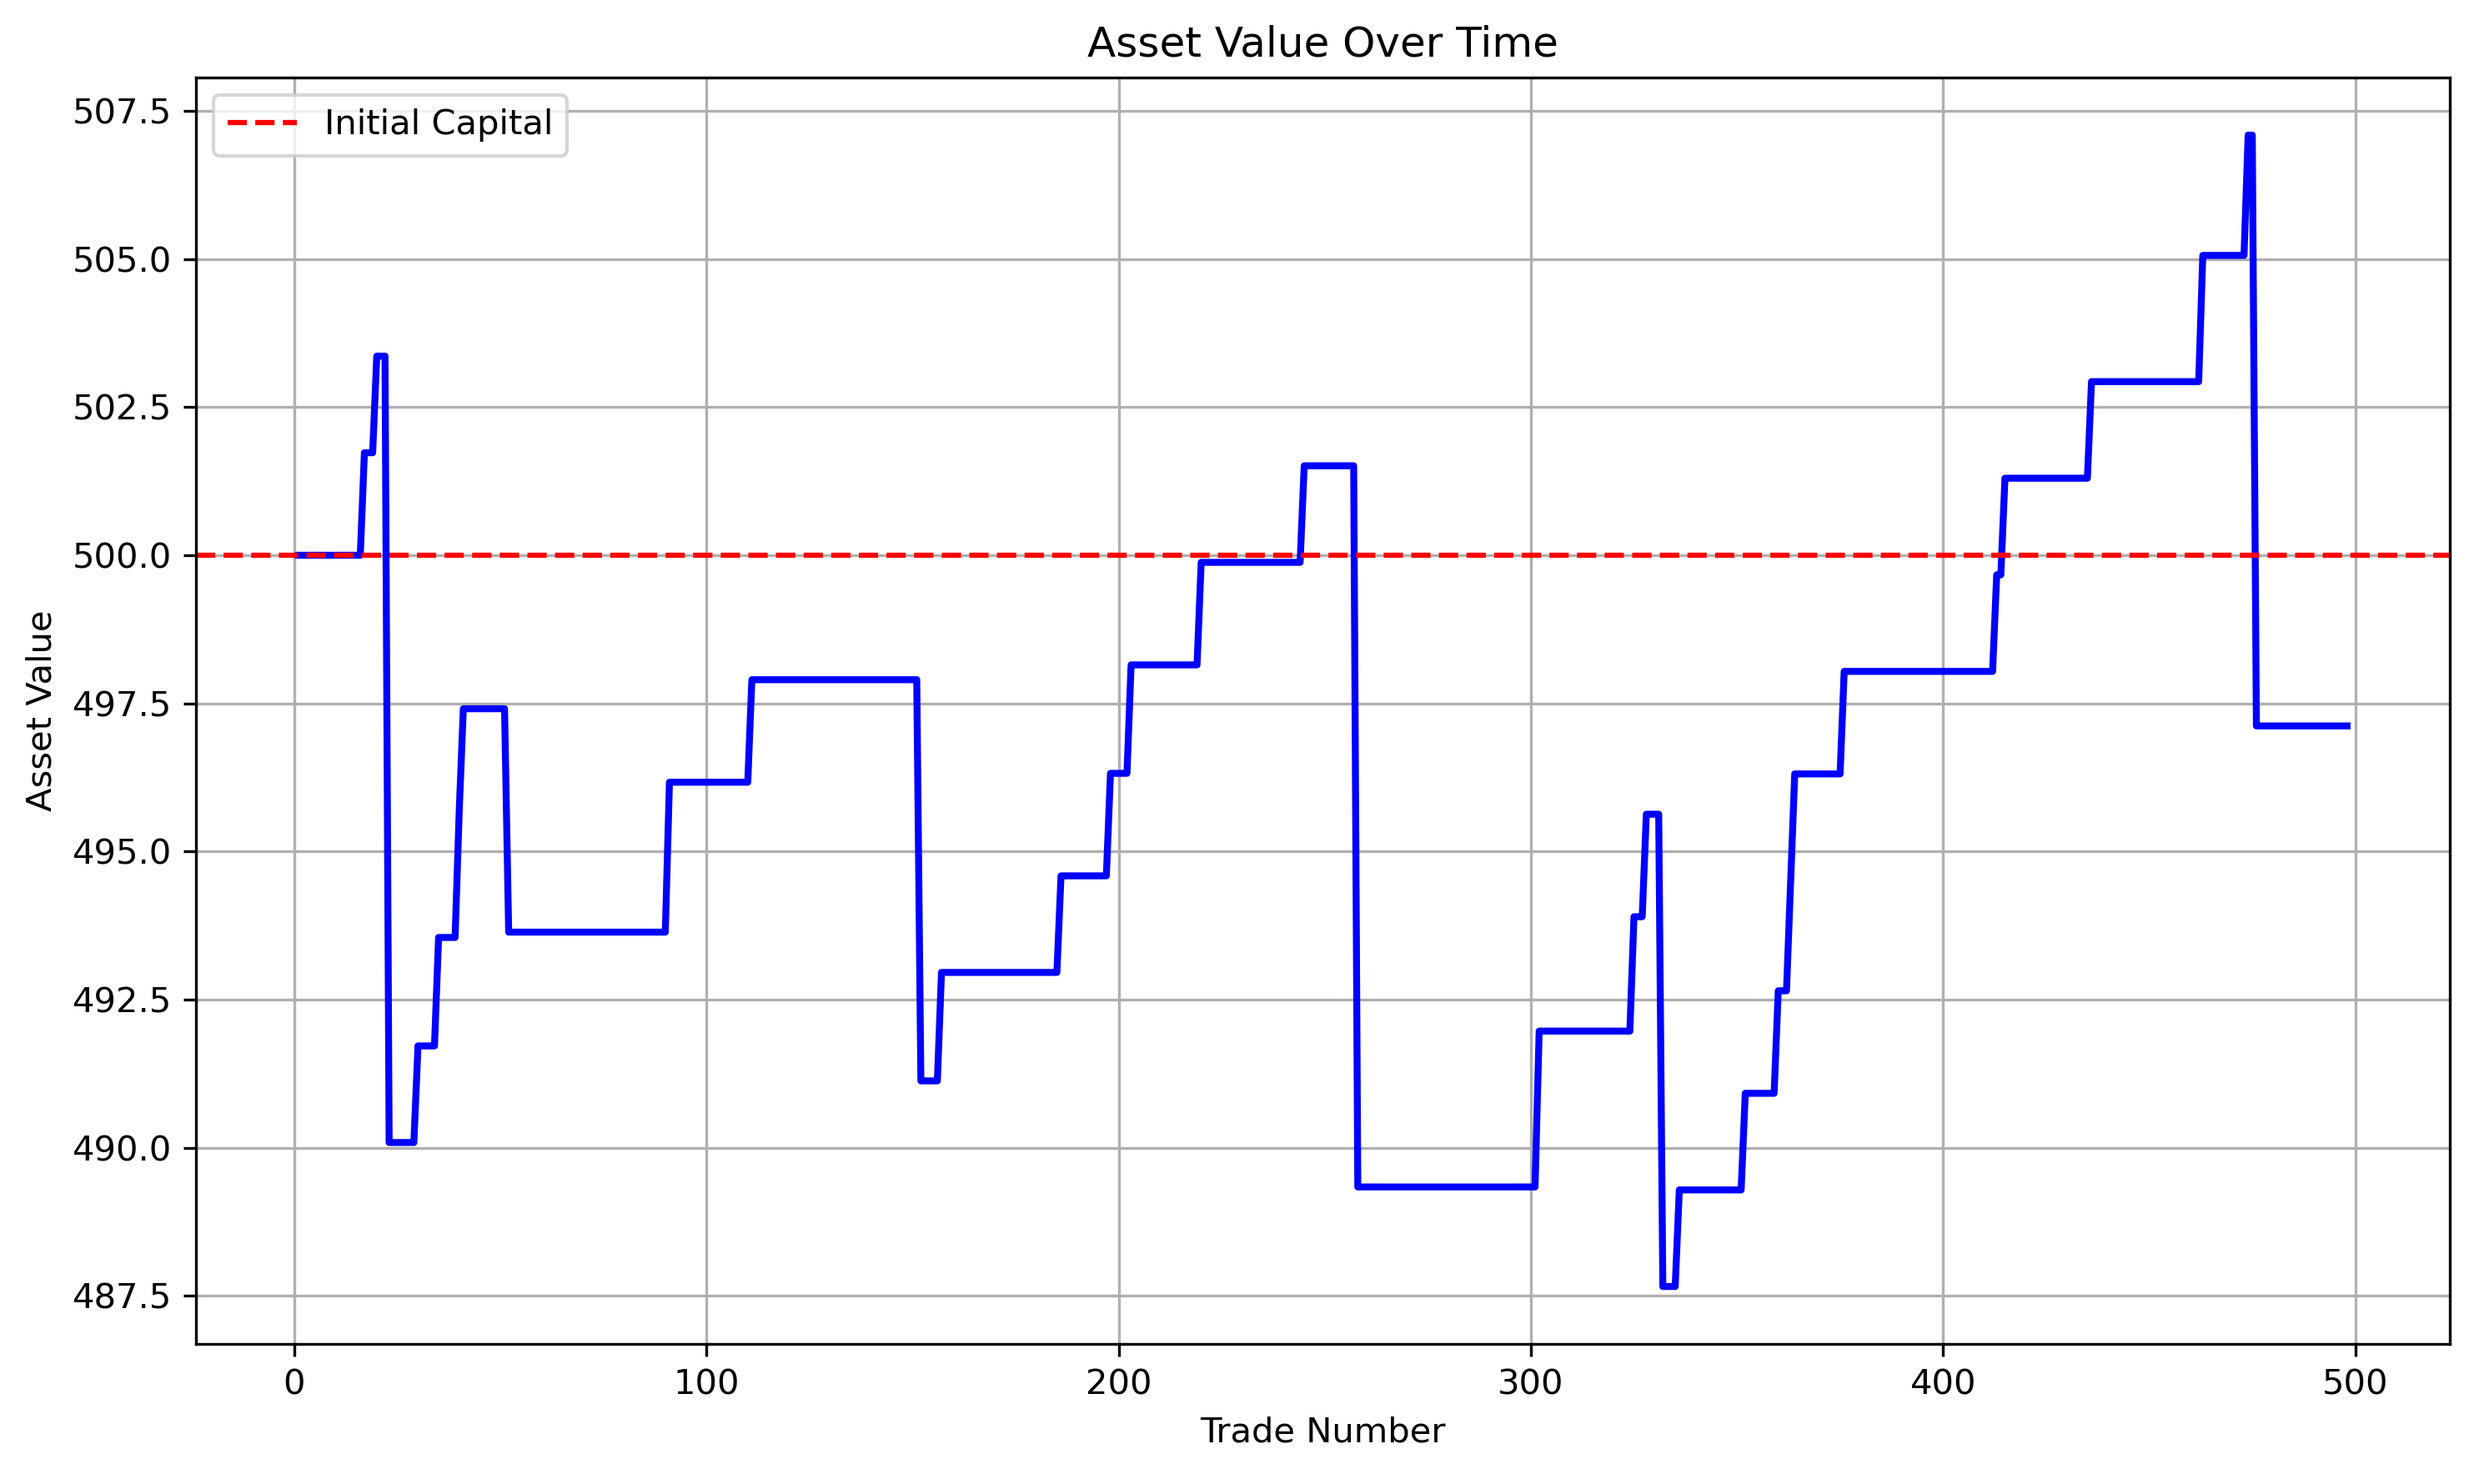
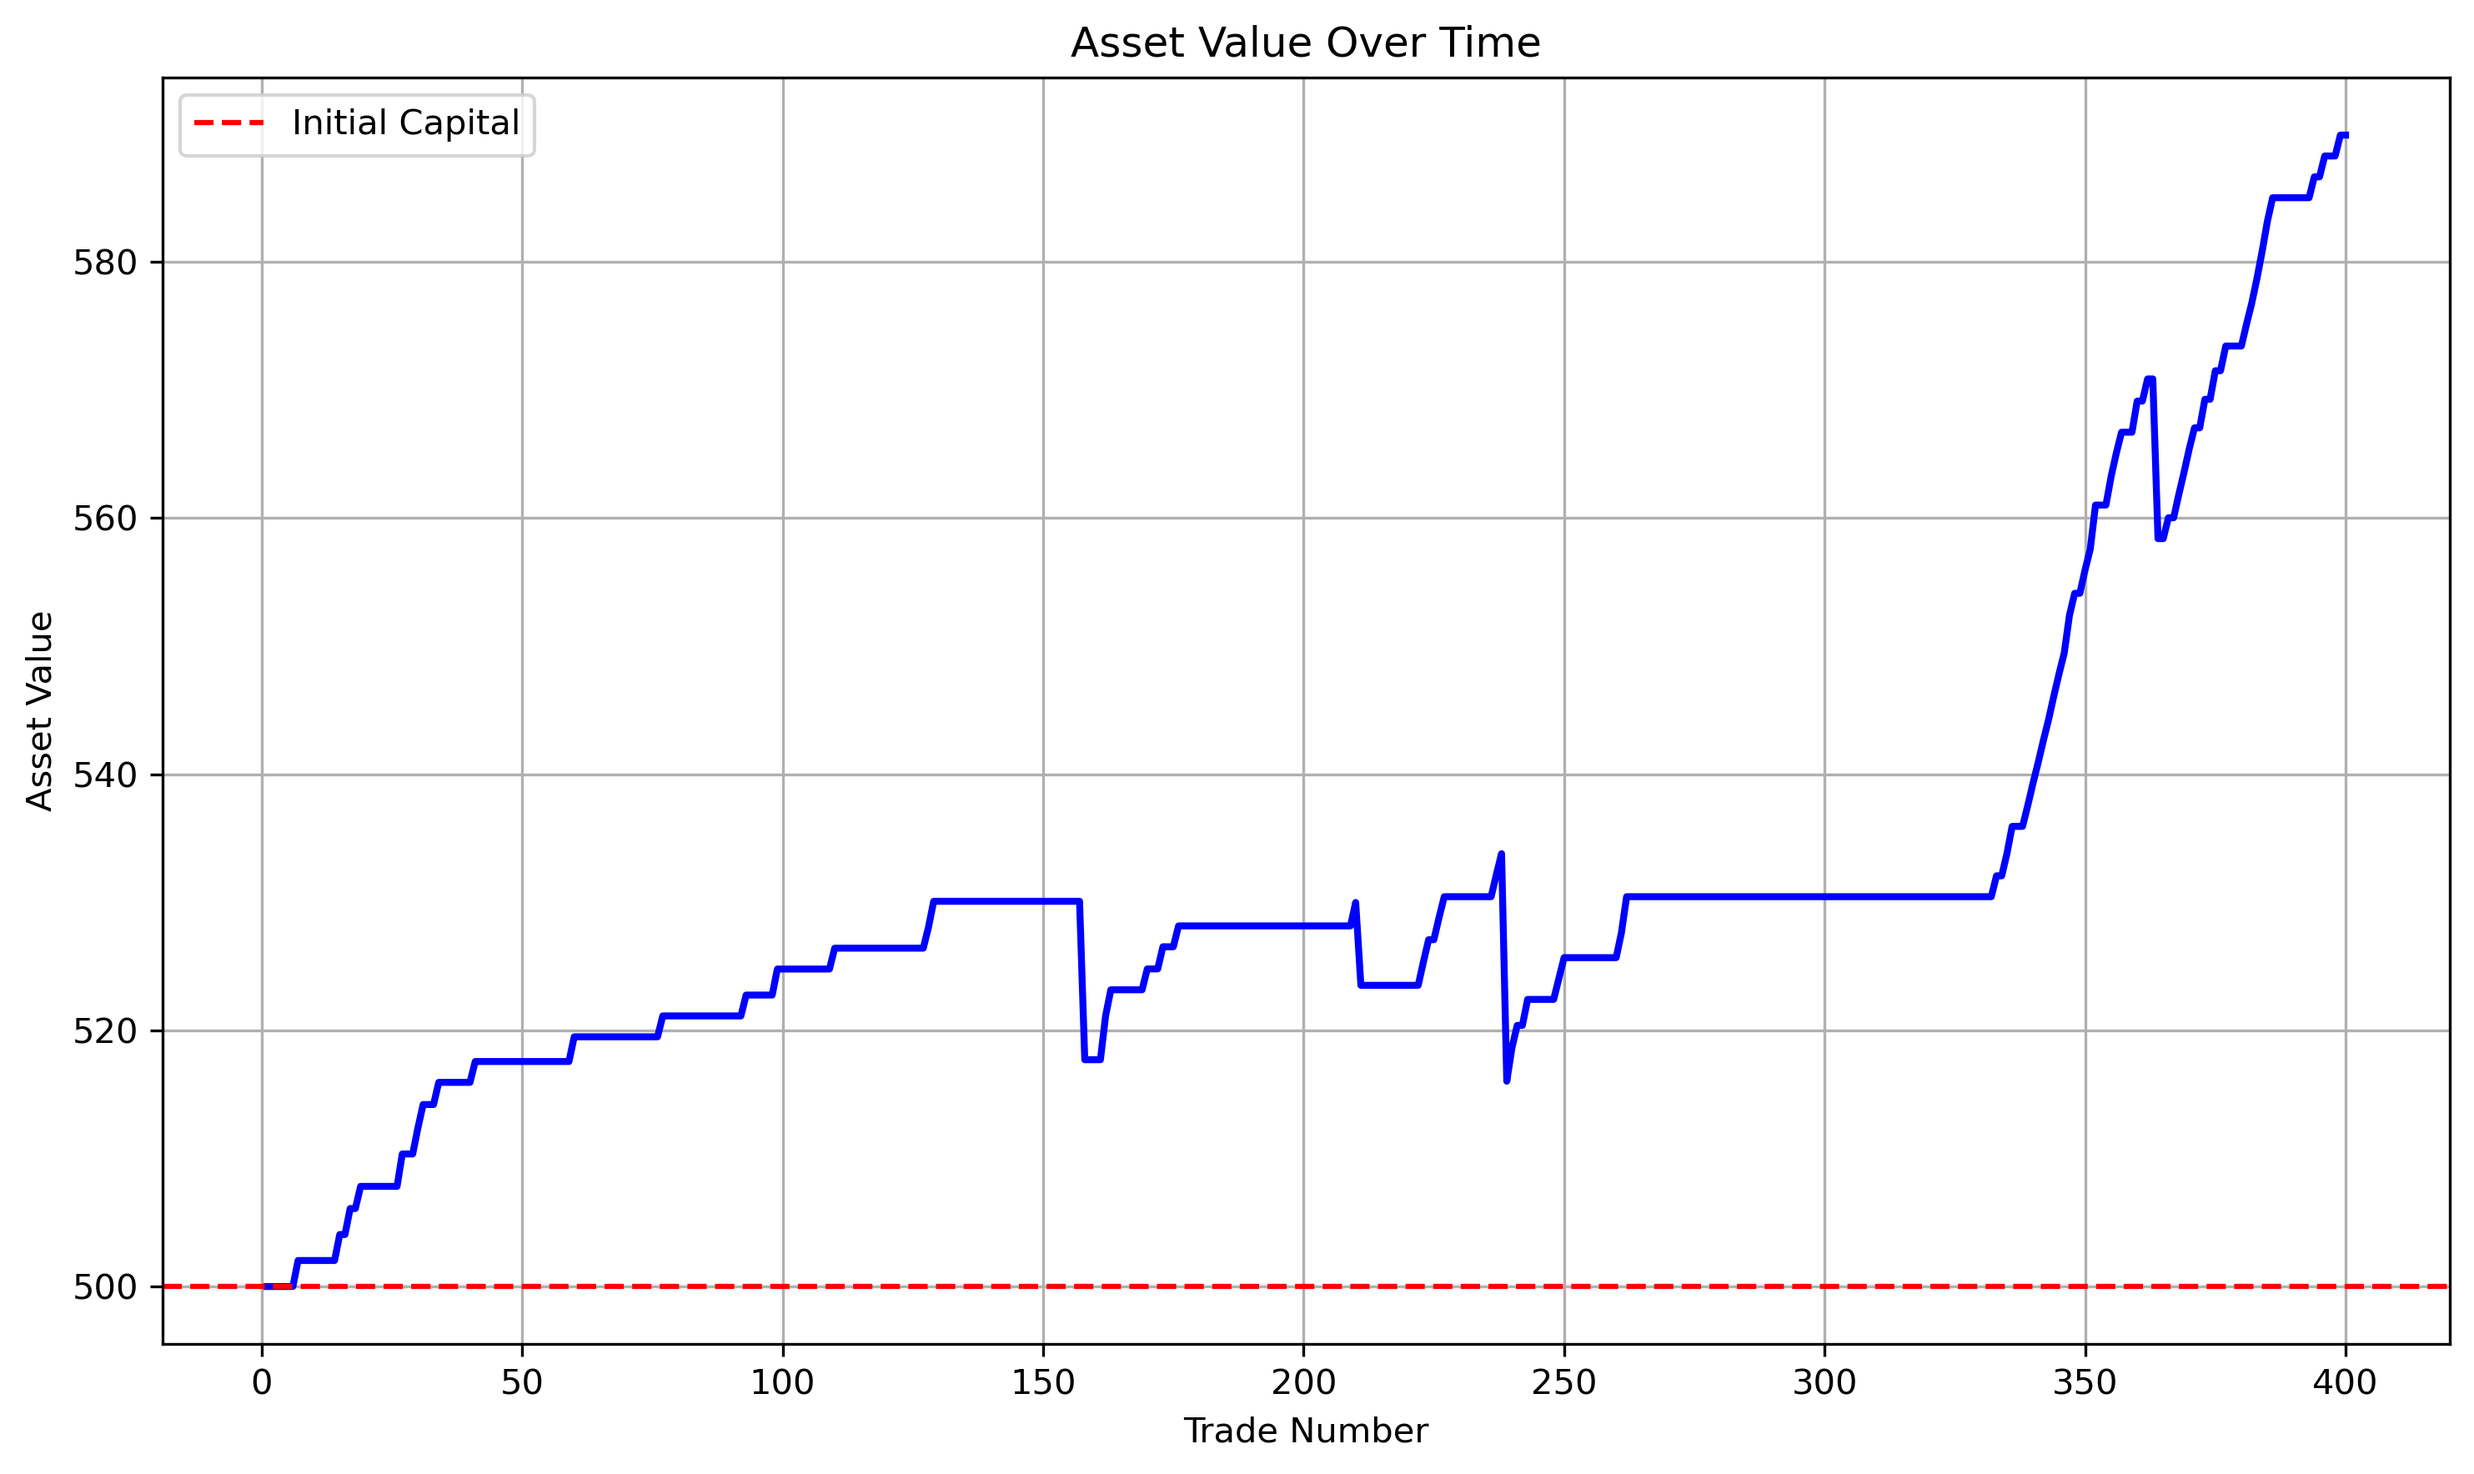
update optimizer

diff --git a/src/optimize/optimizer.py b/src/optimize/optimizer.py
@@ -3,6 +3,8 @@ from optuna.samplers import RandomSampler
 import json
 import os
 from src.backtesting.backtesting import Backtesting
+from src.metrics.metric import Metric
+import pandas as pd
 
 class Optimizer:
     def __init__(self, data):
@@ -31,12 +33,14 @@ class Optimizer:
     def ORB_optimize(self): 
         optimize_parameters = {
             'period': 0,
-            'condition_diff': 0
+            'condition_diff': 0, 
+            'take_profit': 0
         }
         max_sharpe_ratio = 0
         backtesting = Backtesting(self.data)
         for i in range(5, 150, 5):
-            metric = backtesting.ORB_strategy(period=i, take_profit=2, condition_diff=1)
+            pnl_per_trade, date_per_trade = backtesting.ORB_strategy(period=i, take_profit=2, condition_diff=1)
+            metric = Metric(pd.Series(pnl_per_trade), None, is_benchmark=True)
             if metric.sharpe_ratio() > max_sharpe_ratio:
                 max_sharpe_ratio = metric.sharpe_ratio()
                 optimize_parameters['period'] = i
@@ -45,12 +49,21 @@ class Optimizer:
 
         for i in range(optimize_parameters['period'] - 5, optimize_parameters['period'] + 5):
             for j in range(1, 10):
-                metric = backtesting.ORB_strategy(period=i, take_profit=2, condition_diff=j)
+                pnl_per_trade, date_per_trade = backtesting.ORB_strategy(period=i, take_profit=2, condition_diff=j)
+                metric = Metric(pd.Series(pnl_per_trade), None, is_benchmark=True)
                 if metric.sharpe_ratio() > max_sharpe_ratio:
                     max_sharpe_ratio = metric.sharpe_ratio()
                     optimize_parameters['period'] = i
                     optimize_parameters['condition_diff'] = j
                 print(f"period={i}, condition_diff={j}, Sharpe ratio={metric.sharpe_ratio()}")
+
+        for i in range(1, 4):  
+            pnl_per_trade, date_per_trade = backtesting.ORB_strategy(period=optimize_parameters['period'], take_profit=i, condition_diff=optimize_parameters['condition_diff'])
+            metric = Metric(pd.Series(pnl_per_trade), None, is_benchmark=True)
+            if metric.sharpe_ratio() > max_sharpe_ratio:
+                max_sharpe_ratio = metric.sharpe_ratio()
+                optimize_parameters['take_profit'] = i
+            print(f"period={optimize_parameters['period']}, condition_diff={optimize_parameters['condition_diff']}, take_profit={i}, Sharpe ratio={metric.sharpe_ratio()}")
 
         print("Finished optimization for ORB strategy")
         print(f"Best hyperparameters: {optimize_parameters}")
@@ -66,7 +79,8 @@ class Optimizer:
         max_sharpe_ratio = 0
         backtesting = Backtesting(self.data)
         for i in range(5, 150, 5):
-            metric = backtesting.VWAP_strategy(period=i, take_profit=2, condition_diff=1)
+            pnl_per_trade, date_per_trade = backtesting.VWAP_strategy(period=i, take_profit=2, condition_diff=1)
+            metric = Metric(pd.Series(pnl_per_trade), None, is_benchmark=True)
             if metric.sharpe_ratio() > max_sharpe_ratio:
                 max_sharpe_ratio = metric.sharpe_ratio()
                 optimize_parameters['period'] = i
@@ -75,12 +89,23 @@ class Optimizer:
 
         for i in range(optimize_parameters['period'] - 5, optimize_parameters['period'] + 5):
             for j in range(1, 10):
-                metric = backtesting.VWAP_strategy(period=i, take_profit=2, condition_diff=j)
+                pnl_per_trade, date_per_trade = backtesting.VWAP_strategy(period=i, take_profit=2, condition_diff=j)
+                metric = Metric(pd.Series(pnl_per_trade), None, is_benchmark=True)
                 if metric.sharpe_ratio() > max_sharpe_ratio:
                     max_sharpe_ratio = metric.sharpe_ratio()
                     optimize_parameters['period'] = i
                     optimize_parameters['condition_diff'] = j
                 print(f"period={i}, diff={j}, Sharpe ratio={metric.sharpe_ratio()}")
+
+        for i in range(1, 4):
+            pnl_per_trade, date_per_trade = backtesting.VWAP_strategy(period=optimize_parameters['period'], take_profit=i, condition_diff=optimize_parameters['condition_diff'])
+            metric = Metric(pd.Series(pnl_per_trade), None, is_benchmark=True)
+            if metric.sharpe_ratio() > max_sharpe_ratio:
+                max_sharpe_ratio = metric.sharpe_ratio()
+                optimize_parameters['take_profit'] = i
+            print(f"period={optimize_parameters['period']}, condition_diff={optimize_parameters['condition_diff']}, take_profit={i}, Sharpe ratio={metric.sharpe_ratio()}")
+
+
         print("Finished optimization for VWAP strategy")
         print(f"Best hyperparameters: {optimize_parameters}")
         print(f"Best Sharpe ratio: {max_sharpe_ratio}")

diff --git a/src/metrics/metric.py b/src/metrics/metric.py
@@ -95,6 +95,12 @@ class Metric:
     def final_pnl(self):
         return np.sum(self.pnl_per_trade)
     
+    def final_excess_return(self):
+        if self.is_benchmark:
+            return None
+        else:
+            return (self.final_pnl() - self.benchmark_metric.final_pnl()) / self.initial_capital
+    
     def print_metrics(self):
         if not self.is_benchmark:
             print(f"Holding period return: {self.holding_period_return() * 100}%")
@@ -108,6 +114,7 @@ class Metric:
             print(f"Sortino ratio: {self.sortino_ratio()}")
             print(f"Information ratio: {self.information_ratio()}")
             print(f"Final PnL: {self.final_pnl()}")
+            print(f"Final excess return: {self.final_excess_return() * 100}%")
         else:
             print(f"Holding period return: {self.holding_period_return() * 100}%")
             print(f"Annualized return: {self.annualized_return() * 100}%")

diff --git a/run_backtesting.py b/run_backtesting.py
@@ -61,7 +61,7 @@ if __name__ == "__main__":
             pnl_per_trade, date_per_trade = backtesting.VWAP_strategy(30, 2, 1)
             metric = Metric(pd.Series(pnl_per_trade), benchmark_metric, is_benchmark=False)
         elif args.parameter == 1:
-            pnl_per_trade, date_per_trade = backtesting.VWAP_strategy(33, 2, 3)
+            pnl_per_trade, date_per_trade = backtesting.VWAP_strategy(33, 3, 3)
             metric = Metric(pd.Series(pnl_per_trade), benchmark_metric, is_benchmark=False)
         print('VWAP strategy:')
         metric.print_metrics()
